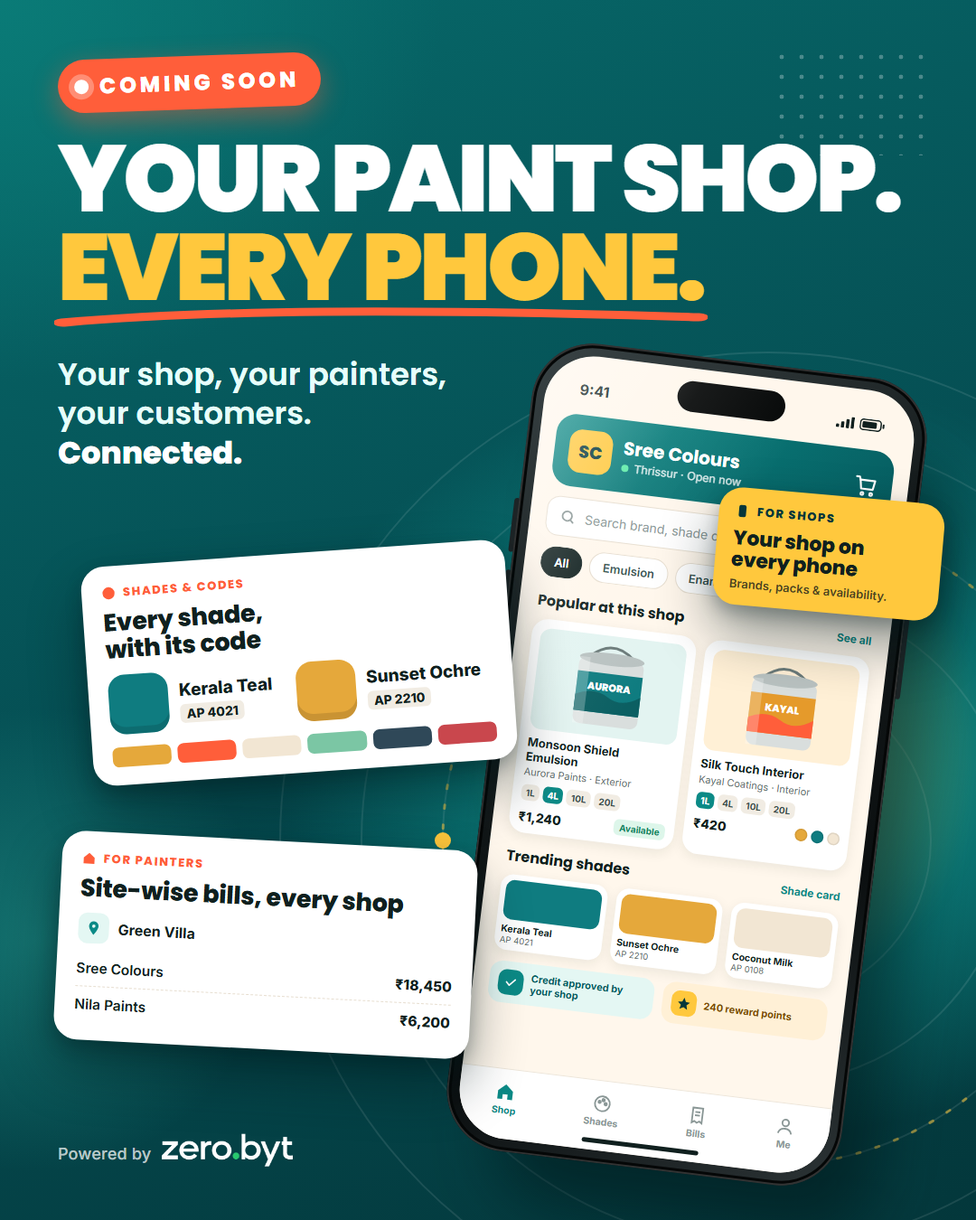
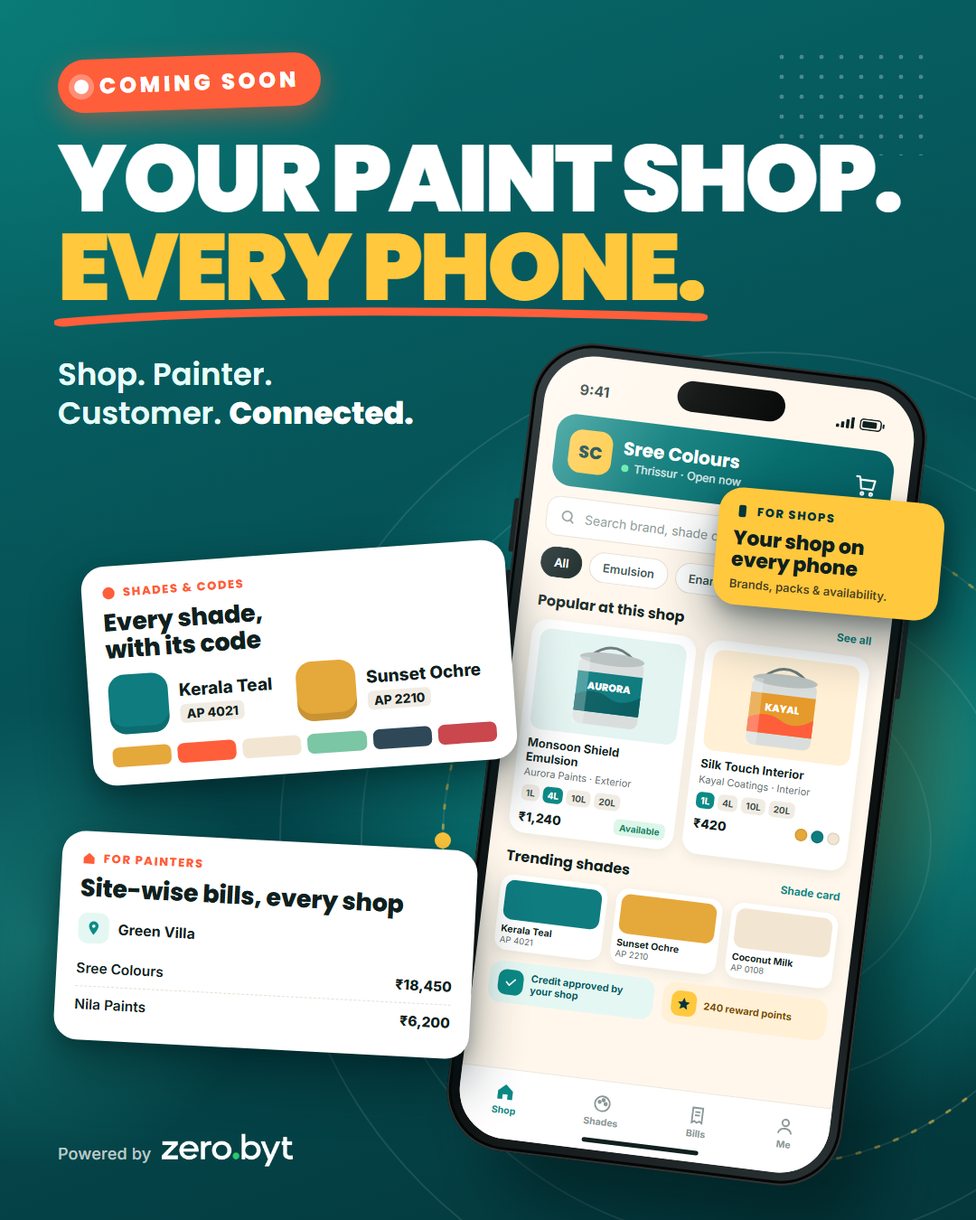
feat(marketing): Day 2 reel and the D-040 campaign tagline
- Day 2 reel ("POV: you need 2 more buckets at the site"): script with
  scored hooks, timed beat sheet, shot list (app beats as motion
  graphics, not fake UI), cover, the owner-approved style frame, caption.
- Tagline switched to "Shop. Painter. Customer. Connected." in the
  templates, calendar and Days 1 and 7 (re-rendered).
- The SevenPalette name stays secret in posts until the Day 30 reveal
  (brand.json nameReveal, calendar, SKILL rule).
- SKILL: reel review gate (script + one sample frame before building).

Claude-Session: https://claude.ai/code/session_01Cer5WQWXnKfRofxLWHLQrp

Changed region(s): [[0.0611, 0.28, 0.4583, 0.4044]]

diff --git a/marketing/instagram/output/day-02-reel/frame-order.html b/marketing/instagram/output/day-02-reel/frame-order.html
@@ -1,0 +1,123 @@
+<!doctype html>
+<html>
+<head>
+<meta charset="utf-8">
+<link href="https://fonts.googleapis.com/css2?family=Poppins:wght@500;600;700;800;900&family=Inter:wght@400;500;600;700;800&display=block" rel="stylesheet">
+<style>
+  :root{--t900:#03373B;--t700:#07696A;--t600:#0B8A86;--glow:#10A39C;--sun:#FFC83D;--coral:#FF5E3A;--mint:#3DDBC4;--cream:#FFF7EC;--ink:#10201F}
+  *{box-sizing:border-box;margin:0;padding:0}
+  html,body{width:1080px;height:1920px;overflow:hidden}
+  body{font-family:Poppins,sans-serif;color:#fff;position:relative;
+    background:radial-gradient(900px 900px at 70% 52%,rgba(16,163,156,.55),transparent 70%),linear-gradient(170deg,var(--t700) 0%,#054C51 55%,var(--t900) 100%)}
+  .rings{position:absolute;left:50%;top:1000px;width:1500px;height:1500px;transform:translate(-50%,-50%);border-radius:50%;
+    background:repeating-radial-gradient(circle,rgba(255,255,255,.06) 0 2px,transparent 2px 100px)}
+  .dots{position:absolute;right:84px;top:420px;width:220px;height:100px;background:radial-gradient(rgba(255,255,255,.3) 3px,transparent 3.5px) 0 0/40px 40px}
+
+  /* progress + POV chip (top safe area starts ~ 250px under IG header) */
+  .top{position:absolute;left:84px;right:84px;top:260px;display:flex;align-items:center;justify-content:space-between}
+  .pov{background:var(--coral);font-weight:800;font-size:30px;letter-spacing:.12em;padding:12px 30px;border-radius:999px;transform:rotate(-3deg);box-shadow:0 14px 36px rgba(255,94,58,.45)}
+  .steps{display:flex;gap:10px}
+  .steps i{display:block;width:56px;height:8px;border-radius:8px;background:rgba(255,255,255,.25)}
+  .steps i.on{background:var(--sun)}
+
+  /* big on-screen text */
+  h1{position:absolute;left:84px;right:84px;top:380px;font-weight:900;font-size:104px;line-height:1.0;letter-spacing:-.03em;text-transform:uppercase}
+  h1 span{color:var(--sun)}
+  .bar{position:absolute;left:84px;top:610px;width:160px;height:12px;border-radius:8px;background:var(--coral);transform:rotate(-1.5deg)}
+
+  /* order card */
+  .card{position:absolute;left:120px;right:120px;top:700px;background:var(--cream);color:var(--ink);border-radius:40px;padding:40px 44px 44px;
+    transform:rotate(-2.5deg);box-shadow:0 40px 80px rgba(0,0,0,.35),0 0 0 1px rgba(255,255,255,.5)}
+  .card-head{display:flex;align-items:center;justify-content:space-between;font-family:Inter;font-size:24px;font-weight:600;color:#5b6b69}
+  .site{display:flex;align-items:center;gap:12px;color:var(--t700);font-weight:700}
+  .site b{display:inline-flex;align-items:center;justify-content:center;width:40px;height:40px;border-radius:12px;background:#DDF3EF}
+  .shop{display:flex;align-items:center;gap:18px;margin-top:30px}
+  .av{width:72px;height:72px;border-radius:20px;background:var(--sun);display:flex;align-items:center;justify-content:center;font-weight:800;font-size:28px;color:var(--ink)}
+  .shop h3{font-size:36px;font-weight:700;line-height:1.1}
+  .shop p{font-family:Inter;font-size:22px;color:#6b7a78;margin-top:4px}
+  .item{display:flex;gap:26px;margin-top:30px;padding:26px;border-radius:28px;background:#fff;box-shadow:0 2px 0 #efe6d8}
+  .tin{flex:none;width:150px;height:160px}
+  .item h4{font-size:32px;font-weight:700;line-height:1.15}
+  .item .brand{font-family:Inter;font-size:22px;color:#6b7a78;margin-top:6px}
+  .chips{display:flex;gap:12px;margin-top:18px;flex-wrap:wrap}
+  .chip{display:inline-flex;align-items:center;gap:10px;font-family:Inter;font-weight:700;font-size:22px;padding:10px 16px;border-radius:999px;background:#EAF6F4;color:var(--t700)}
+  .chip i{display:block;width:24px;height:24px;border-radius:8px;background:#0F7C80}
+  .chip.pack{background:var(--ink);color:#fff}
+  .order{position:relative;margin-top:32px;height:96px;border-radius:999px;background:var(--coral);color:#fff;display:flex;align-items:center;justify-content:center;
+    font-weight:800;font-size:36px;letter-spacing:.01em;box-shadow:0 18px 36px rgba(255,94,58,.4)}
+  /* tap ripple = suggests the animation */
+  .tap{position:absolute;right:150px;top:50%;width:70px;height:70px;margin-top:-35px;border-radius:50%;background:rgba(255,255,255,.55)}
+  .tap::before,.tap::after{content:"";position:absolute;inset:-26px;border-radius:50%;border:4px solid rgba(255,255,255,.55)}
+  .tap::after{inset:-56px;border-color:rgba(255,255,255,.25)}
+
+  /* next beat peeking: added to site */
+  .added{position:absolute;left:190px;top:1370px;display:flex;align-items:center;gap:18px;background:rgba(255,255,255,.12);border:2px solid rgba(255,255,255,.25);
+    backdrop-filter:blur(8px);padding:20px 30px 20px 22px;border-radius:999px;font-weight:700;font-size:30px;transform:rotate(1.5deg)}
+  .added b{display:inline-flex;align-items:center;justify-content:center;width:52px;height:52px;border-radius:50%;background:var(--mint);color:var(--ink);font-size:30px}
+  .sparkle{position:absolute;color:var(--sun);font-size:44px}
+
+  /* voice-over subtitle */
+  .sub{position:absolute;left:84px;right:84px;top:1550px;text-align:center;font-family:Inter;font-weight:700;font-size:36px;line-height:1.35}
+  .sub span{background:rgba(3,55,59,.75);padding:6px 16px;border-radius:12px;-webkit-box-decoration-break:clone;box-decoration-break:clone}
+
+  /* zero.byt lockup (36px spec) — reel watermark sits above the IG caption area */
+  .zb{position:absolute;left:84px;top:1680px;display:flex;align-items:baseline;gap:12px;font-family:Inter,sans-serif;line-height:1}
+  .zb-label{font-size:18px;font-weight:500;letter-spacing:.01em;color:rgba(255,255,255,.72)}
+  .zb-logo{height:36px;width:auto;display:block;flex:none;transform:translateY(7.7px)}
+
+
+  .guide{position:absolute;left:0;right:0;border-top:2px dashed rgba(255,255,255,.35)}
+  .guide span{position:absolute;right:16px;top:6px;font:600 18px Inter;color:rgba(255,255,255,.6)}
+</style>
+</head>
+<body>
+  <div class="rings"></div>
+  <div class="dots"></div>
+
+  <div class="top">
+    <div class="pov">POV</div>
+    <div class="steps"><i class="on"></i><i class="on"></i><i class="on"></i><i></i><i></i></div>
+  </div>
+
+  <h1>Order from<br><span>your shop</span></h1>
+  <div class="bar"></div>
+
+  <div class="card">
+    <div class="card-head">
+      <div class="site"><b>📍</b>Green Villa</div>
+      <div>Site order</div>
+    </div>
+    <div class="shop">
+      <div class="av">SC</div>
+      <div><h3>Sree Colours</h3><p>Thrissur · Your shop</p></div>
+    </div>
+    <div class="item">
+      <svg class="tin" viewBox="0 0 150 160" aria-hidden="true">
+        <ellipse cx="75" cy="30" rx="58" ry="14" fill="#CFE3E0"/>
+        <path d="M17 30 v100 a58 14 0 0 0 116 0 v-100" fill="#E8F2F0"/>
+        <rect x="17" y="58" width="116" height="56" fill="#0F7C80"/>
+        <text x="75" y="93" text-anchor="middle" font-family="Poppins" font-weight="800" font-size="17" fill="#fff">AURORA</text>
+        <ellipse cx="75" cy="30" rx="58" ry="14" fill="none" stroke="#9FBDB8" stroke-width="3"/>
+        <path d="M30 26 q45 -40 90 0" fill="none" stroke="#7d8f8c" stroke-width="5" stroke-linecap="round"/>
+      </svg>
+      <div>
+        <h4>Monsoon Shield Emulsion</h4>
+        <div class="brand">Aurora Paints · Exterior</div>
+        <div class="chips">
+          <span class="chip"><i></i>Kerala Teal · AP 4021</span>
+          <span class="chip pack">4L × 2</span>
+        </div>
+      </div>
+    </div>
+    <div class="order">Order<span class="tap"></span></div>
+  </div>
+
+  <div class="added"><b>✓</b>Added to Green Villa</div>
+  <div class="sparkle" style="left:120px;top:1352px">✦</div>
+  <div class="sparkle" style="left:880px;top:1412px;font-size:32px;color:var(--mint)">✦</div>
+
+  <div class="sub"><span>Order from your shop, right from the site.</span></div>
+
+  <div class="zb"><span class="zb-label">Powered by</span><img class="zb-logo" src="../../assets/zerobyt-logo-light.png" alt="zero.byt"></div>
+</body>
+</html>

diff --git a/marketing/instagram/output/day-02-reel/cover.html b/marketing/instagram/output/day-02-reel/cover.html
@@ -1,0 +1,55 @@
+<!doctype html>
+<!--
+  Reel cover in style A (teal / sun / coral), 1080x1920 (9:16). The profile grid crops it to the centre
+  1080x1350, so all text sits inside .safe (top 285px .. bottom 285px).
+  Copy to marketing/instagram/output/day-XX-reel/cover.html, replace POV, Need 2 more buckets, at the site?, Shop. Painter. Customer. Connected.,
+  render with scripts/render.mjs at 1080 1920, then LOOK at the PNG.
+  Rules: English only; no product name; logo placed directly (never a white box).
+-->
+<html>
+  <head>
+    <meta charset="utf-8" />
+    <link href="https://fonts.googleapis.com/css2?family=Poppins:wght@500;600;800;900&family=Inter:wght@500&display=block" rel="stylesheet" />
+    <style>
+      :root { --teal-900: #03373b; --teal-700: #07696a; --glow: #10a39c; --sun: #ffc83d; --coral: #ff5e3a; --mint: #3ddbc4; --cream: #fff7ec; }
+      * { box-sizing: border-box; margin: 0; padding: 0; }
+      html, body { width: 1080px; height: 1920px; overflow: hidden; }
+      body {
+        font-family: "Poppins", sans-serif; color: #fff; position: relative;
+        background: radial-gradient(900px 900px at 80% 38%, rgba(16, 163, 156, 0.55), transparent 70%),
+          linear-gradient(170deg, var(--teal-700) 0%, #054c51 55%, var(--teal-900) 100%);
+      }
+      .rings { position: absolute; right: -260px; top: 420px; width: 1100px; height: 1100px; border-radius: 50%;
+        background: repeating-radial-gradient(circle, rgba(255, 255, 255, 0.07) 0 2px, transparent 2px 90px); }
+      .dots { position: absolute; left: 80px; top: 120px; width: 260px; height: 120px;
+        background: radial-gradient(rgba(255, 255, 255, 0.35) 3px, transparent 3.5px) 0 0 / 40px 40px; }
+      .safe { position: absolute; top: 285px; left: 0; width: 1080px; height: 1350px; padding: 110px 84px;
+        display: flex; flex-direction: column; justify-content: center; }
+      .kicker { align-self: flex-start; background: var(--coral); font-weight: 800; font-size: 34px; letter-spacing: 0.12em;
+        text-transform: uppercase; padding: 16px 34px; border-radius: 999px; transform: rotate(-3deg);
+        box-shadow: 0 16px 40px rgba(255, 94, 58, 0.45); }
+      h1 { margin-top: 60px; font-weight: 900; font-size: 128px; line-height: 0.98; letter-spacing: -0.035em; text-transform: uppercase; }
+      h1 .two { color: var(--sun); }
+      .bar { width: 180px; height: 14px; border-radius: 8px; background: var(--coral); margin-top: 34px; transform: rotate(-1.5deg); }
+      .sub { margin-top: 48px; font-weight: 500; font-size: 46px; line-height: 1.3; color: var(--cream); max-width: 860px; }
+      /* zero.byt lockup: same spec as the posters (logo 36px, label on the 'zero' baseline). */
+      .zb { position: absolute; left: 84px; bottom: 118px; display: flex; align-items: baseline; gap: 12px; line-height: 1; }
+      .zb-label { font-family: "Inter", sans-serif; font-size: 18px; font-weight: 500; letter-spacing: 0.01em; color: rgba(255, 255, 255, 0.72); }
+      .zb-logo { height: 36px; width: auto; display: block; flex: none; transform: translateY(7.7px); }
+      .swatches { position: absolute; right: 84px; bottom: 110px; display: flex; gap: 14px; }
+      .swatches i { width: 54px; height: 54px; border-radius: 14px; display: block; box-shadow: 0 8px 20px rgba(0, 0, 0, 0.25); }
+    </style>
+  </head>
+  <body>
+    <div class="rings"></div>
+    <div class="dots"></div>
+    <div class="safe">
+      <div class="kicker">POV</div>
+      <h1>Need 2 more buckets<br /><span class="two">at the site?</span></h1>
+      <div class="bar"></div>
+      <p class="sub">Shop. Painter. Customer. Connected.</p>
+      <div class="zb"><span class="zb-label">Powered by</span><img class="zb-logo" src="../../assets/zerobyt-logo-light.png" alt="zero.byt" /></div>
+      <div class="swatches"><i style="background: #0f7c80"></i><i style="background: #e5a83b"></i><i style="background: #ff5e3a"></i><i style="background: #fff7ec"></i></div>
+    </div>
+  </body>
+</html>

diff --git a/.claude/skills/instagram/templates/style-a-showcase.html b/.claude/skills/instagram/templates/style-a-showcase.html
@@ -165,7 +165,7 @@
   <div class="top">
     <div class="badge"><span class="pulse"></span>Coming soon</div>
     <h1>Your paint shop.<br><span class="y u">Every phone.<svg viewBox="0 0 300 30" preserveAspectRatio="none"><path d="M4 20 C 70 6, 160 4, 296 14" stroke="#FF5E3A" stroke-width="9" fill="none" stroke-linecap="round"/></svg></span></h1>
-    <p class="tag">Your shop, your painters,<br>your customers. <b>Connected.</b></p>
+    <p class="tag">Shop. Painter.<br>Customer. <b>Connected.</b></p>
   </div>
 
   <!-- phone -->

diff --git a/marketing/instagram/output/day-01-post/poster-a.html b/marketing/instagram/output/day-01-post/poster-a.html
@@ -165,7 +165,7 @@
   <div class="top">
     <div class="badge"><span class="pulse"></span>Coming soon</div>
     <h1>Your paint shop.<br><span class="y u">Every phone.<svg viewBox="0 0 300 30" preserveAspectRatio="none"><path d="M4 20 C 70 6, 160 4, 296 14" stroke="#FF5E3A" stroke-width="9" fill="none" stroke-linecap="round"/></svg></span></h1>
-    <p class="tag">Your shop, your painters,<br>your customers. <b>Connected.</b></p>
+    <p class="tag">Shop. Painter.<br>Customer. <b>Connected.</b></p>
   </div>
 
   <!-- phone -->

diff --git a/.claude/skills/instagram/templates/style-c-before-after.html b/.claude/skills/instagram/templates/style-c-before-after.html
@@ -224,7 +224,7 @@ body{background:var(--violet);font-family:Inter,sans-serif;position:relative;col
 <!-- footer -->
 <div class="foot">
   <div>
-    <div class="tagline">Your shop, your painters, your customers.<br><em>Connected.</em></div>
+    <div class="tagline">Shop. Painter. Customer.<br><em>Connected.</em></div>
     <div class="cta">Coming soon · Follow @zero.byt to see it first →</div>
   </div>
   <div class="zb stack">

diff --git a/.claude/skills/instagram/templates/style-d-typography.html b/.claude/skills/instagram/templates/style-d-typography.html
@@ -164,7 +164,7 @@
   </div>
 
   <div class="tag">
-    <p>Your shop, your painters,<br>your customers.</p>
+    <p>Shop. Painter.<br>Customer.</p>
     <div class="c">Connected.</div>
   </div>
 

diff --git a/marketing/instagram/output/day-07-post/poster-a.html b/marketing/instagram/output/day-07-post/poster-a.html
@@ -164,7 +164,7 @@
   </div>
 
   <div class="tag">
-    <p>Your shop, your painters,<br>your customers.</p>
+    <p>Shop. Painter.<br>Customer.</p>
     <div class="c">Connected.</div>
   </div>
 

diff --git a/marketing/instagram/CONTENT_PLAN_30_DAYS.md b/marketing/instagram/CONTENT_PLAN_30_DAYS.md
@@ -4,7 +4,9 @@
 
 **Rhythm:** a reel day has 1 reel and a post day has 2 posters (two posts, or one 2-slide carousel). **Day 1 is a single poster.** There are 10 reel days and 20 post days.
 
-**Tagline (product owner):** "Your shop, your painters, your customers. Connected."
+**Tagline (D-040, switched 2026-11-06):** "Shop. Painter. Customer. Connected."
+
+**Product name is secret:** the product is named SevenPalette (D-040), but the product owner wants it kept secret in posts until the **Day 30 reveal**. Until then: no name and no fan logo, only "the app" and Powered by zero.byt.
 
 **Goal (product owner, 2026-11-05):** don't repeat one pattern, and don't say "Coming soon" every day. Get people engaged by showing what the software actually does: features, how it works, questions, tips and sneak peeks.
 
@@ -40,7 +42,7 @@ Templates are in `.claude/skills/instagram/templates/`.
 **What we say**
 - Only features that `docs/FEATURE_CATALOG.md` marks Confirmed, Confirmed direction or Implemented. Future features are described as coming, never as available now.
 - **"Coming soon" appears as a badge only on Days 1, 7, 22, 28 and 30.** Other days use their format's badge and an engagement CTA.
-- **No product name.** Call it "the app" or "a new app for paint shops". Credit it only as **Powered by zero.byt**: the logo lockup goes on every poster and cover, and `Powered by @zero.byt` ends every caption.
+- **No product name before Day 30.** Call it "the app" or "a new app for paint shops". Day 30 reveals **SevenPalette** and its fan logo. Credit it only as **Powered by zero.byt**: the logo lockup goes on every poster and cover, and `Powered by @zero.byt` ends every caption.
 - **English only.**
 
 **What we never say**
@@ -64,7 +66,7 @@ Pillars: **T** teaser · **S** shops · **P** painters · **C** customers · **B
 | Day | Format | Pillar | Topic | Headline / hook | Engagement CTA | Source | Status |
 |---:|---|---|---|---|---|---|---|
 | 1 | Post ×1: F1 | T | The big idea | "Your paint shop. Every phone." (COMING SOON) | Follow @zero.byt | PRODUCT_OVERVIEW §1, §3 | ready |
-| 2 | Reel: POV | P | Order from the site | "POV: you need 2 more buckets at the site" | Tag a painter friend | FEATURE_CATALOG §2 | todo |
+| 2 | Reel: POV | P | Order from the site | "POV: you need 2 more buckets at the site" | Tag a painter friend | FEATURE_CATALOG §2 | ready |
 | 3 | Post: F2 + F4 | S | Storefront · counter pain | A: "Your catalogue, on every customer's phone." · B: "What slows your shop counter the most?" | Save this · Comment 1, 2 or 3 | PRODUCT_OVERVIEW §3.1, §6 | ready |
 | 4 | Reel: before/after | P | Notebook vs site bills | "Notebook vs app. Same painter, same site." | Share with a painter | PRODUCT_OVERVIEW §7 | todo |
 | 5 | Post: F3 + F7 | S | Go live · shade codes | A: "How a shop goes live" · B: "Shop tip #1: Write the shade code on every order." | DM to join early · Save this tip | SHP-001, SHP-003, PLT-002, CAT-002 | ready |
@@ -92,7 +94,7 @@ Pillars: **T** teaser · **S** shops · **P** painters · **C** customers · **B
 | 27 | Post: F6 + F2 | S/C | Easy onboarding · My Shops | A: Myth "Going digital needs a big setup" → Fact "Register, add the basics, go live after review." · B: "Your shops, your list." (My Shops, active shop first) | Save | SHP-003, PLT-002, D-037 | todo |
 | 28 | Post: F10 + F4 | T | Almost here | A: "Almost here." (COMING SOON) · B: "Which feature are you waiting for?" | Comment | FEATURE_CATALOG | todo |
 | 29 | Reel: recap | B | 30 days in 30 seconds | "Everything we showed you, in 30 seconds" | Save + share | FEATURE_CATALOG | todo |
-| 30 | Post: F10 + F1 | T | Be first | A: "Be first." (COMING SOON) · B: "Shop owners: join early." | DM @zero.byt to join early | brand.json cta | todo |
+| 30 | Post: F10 + F1 | T | Name reveal · be first | A: "Meet SevenPalette." (COMING SOON, reveal the name and fan logo) · B: "Shop owners: join early." | DM @zero.byt to join early | brand.json cta | todo |
 
 ## Status values
 

diff --git a/marketing/instagram/output/day-02-reel/script.md b/marketing/instagram/output/day-02-reel/script.md
@@ -1,0 +1,45 @@
+# Day 02: Reel · POV · painters ordering from the site
+
+**Approved look:** `frame-order.png` (the 11–15 s beat, approved by the product owner on 2026-11-06). Build every app beat in this style: teal A background with rings, a coral "POV" tag, a top progress bar (5 segments), a big white + yellow two-line caption, a cream animated card, a subtitle bar, and the Powered by zero.byt lockup.
+
+## Hooks
+
+| Hook | Specific | Audience | Curiosity | Truth | Total |
+|---|---|---|---|---|---|
+| **"POV: you need 2 more buckets at the site"** ✅ | 5 | 5 | 4 | 5 | **19** |
+| "Painters: still calling the shop from the ladder?" | 4 | 5 | 4 | 4 | 17 |
+| "One site. Three shops. Who owes what?" | 4 | 4 | 5 | 5 | 18 (kept for Day 4) |
+
+## Spec
+
+- 21 seconds, 1080×1920 (9:16), on-screen captions always visible (most people watch muted).
+- Keep text between 250 px from the top and 400 px from the bottom, so Instagram's own UI doesn't cover it.
+- Audio: upbeat, light and modern; a soft "pop" on each card entrance and a "tap" click on the Order button. Use a track from Instagram's audio library; no copyrighted file is baked in.
+- Fonts: Poppins 900 for captions, Inter for subtitles and UI. Colours from style A only.
+
+## Beat sheet
+
+| Time | Visual | On-screen text | Voice-over (English) |
+|---|---|---|---|
+| 0–3 s | **B-roll:** a painter on a ladder, the wall half painted, and a close-up of an empty bucket | **POV: 2 more buckets needed** | "Halfway through the wall… and the paint's gone." |
+| 3–7 s | **B-roll:** a phone in hand, a call ringing out, then an unanswered chat bubble | **Call the shop? Wait for a reply?** | "Call the shop. Wait. Call again?" |
+| 7–11 s | **Animated card:** a list of sites slides up (Green Villa, Lake View Flat, Hill Top House); a finger taps **Green Villa** | **Open your site** | "Open your site." |
+| 11–15 s | **Animated card** (`frame-order.png`): Sree Colours · Monsoon Shield Emulsion · Kerala Teal AP 4021 · 4L × 2 → tap **Order**, then "✓ Added to Green Villa" pops in | **Order from your shop** | "Order from your shop, right from the site." |
+| 15–18 s | **Animated card:** the Green Villa total counts up, with bill rows "Sree Colours" and "Varma Paints" shown separately | **Every shop. One site total.** | "Every order adds up under that site, with each shop's bill kept separate." |
+| 18–21 s | **End card:** the reel-cover style, "Painters, this is coming." + tagline + lockup | **Tag a painter friend** | "Shop. Painter. Customer. Connected." |
+
+## Shot list
+
+1. **Ladder shot (0–3 s):** film at a real or staged painting site, vertical. Show no faces or brand labels, or only with consent.
+2. **Empty bucket close-up:** a plain, unbranded bucket.
+3. **Phone in hand (3–7 s):** show the screen blurred or a generic "Calling…" screen. Never use a real contact or number.
+4. **App beats (7–18 s):** these are **motion-graphics cards, not a screen recording**. The customer app isn't built yet, so never present a fake UI as the real app. Build them from `frame-order.html`: duplicate it per beat and animate in CapCut or Canva (slide-up 250 ms, tap ripple, number count-up).
+5. **End card (18–21 s):** `cover.png` style with the CTA line.
+
+## Facts and sources
+
+- Painters manage multiple work sites and attach orders to a site: `docs/FEATURE_CATALOG.md` §2
+- Combined spend per site across shops, with each shop's bill separate: `docs/PRODUCT_OVERVIEW.md` §7
+- An order belongs to one shop: `docs/PRODUCT_OVERVIEW.md` §5, §7
+
+All shop, site, brand, shade and amount data is fictional.

diff --git a/docs/PROJECT_STATE.md b/docs/PROJECT_STATE.md
@@ -353,7 +353,7 @@ Details, commands and environment variables: `docs/TECHNICAL_ARCHITECTURE.md` §
 4. **Hardening before any hosted environment:** questions 49 and 51.
 5. **Product owner:** Google Maps keys (`docs/guides/GOOGLE_MAPS_SETUP.md`); real brand catalogue data; confirm the CAT-002 assumptions (price ≤ MRP, 10-product rule).
 6. **Housekeeping.** Install Node 24 locally.
-7. **Marketing (not a product feature):** daily Instagram content for **@zero.byt** via `/instagram post <day>` / `/instagram reel <day>` (skill `.claude/skills/instagram/`) and the 30-day calendar `marketing/instagram/CONTENT_PLAN_30_DAYS.md`. A format library of 10 poster formats (showcase, feature spotlight, how it works, poll, this or that, myth vs fact, tip, sneak peek, before/after, big-type teaser) in the approved families A (main), D and C. No format repeats on consecutive post days, and "Coming soon" appears only on Days 1, 7, 22, 28 and 30. English only, no product name, "Powered by zero.byt" lockup (36px logo). Days 1 (single poster), 3, 5, 6 and 7 are `ready`.
+7. **Marketing (not a product feature):** daily Instagram content for **@zero.byt** via `/instagram post <day>` / `/instagram reel <day>` (skill `.claude/skills/instagram/`) and the 30-day calendar `marketing/instagram/CONTENT_PLAN_30_DAYS.md`. A format library of 10 poster formats (showcase, feature spotlight, how it works, poll, this or that, myth vs fact, tip, sneak peek, before/after, big-type teaser) in the approved families A (main), D and C. No format repeats on consecutive post days, and "Coming soon" appears only on Days 1, 7, 22, 28 and 30. English only, no product name, "Powered by zero.byt" lockup (36px logo). Days 1 (single poster), 2 (reel), 3, 5, 6 and 7 are `ready`. Tagline "Shop. Painter. Customer. Connected." (D-040); the SevenPalette name stays secret in posts until the Day 30 reveal (product owner, 2026-11-06). Reels: the owner reviews the script and one sample frame before the rest is built.
 
 ## 8. Feature progress
 
@@ -427,3 +427,4 @@ Details, commands and environment variables: `docs/TECHNICAL_ARCHITECTURE.md` §
 | 2026-11-06 | WEB-002 gaps closed: platform admin sign-in in the shared auth layout, resend countdown restarts for every code (`sentAt`), full flow verified at phone width. |
 | 2026-11-06 | DS-003: product named SevenPalette (D-040) with the shade-card fan logo; names in brand.json and native labels, logo files and generator, web and Flutter brand mark, favicon, launcher icons. |
 | 2026-11-06 | WEB-003: Your shops screen in the premium style; `CardLink` `raised` and `dashed` variants. No API change. |
+| 2026-11-06 | Instagram: Day 2 reel (script, cover, approved style frame, caption). Campaign tagline switched to the D-040 one; Days 1 and 7 re-rendered; product name kept secret until a Day 30 reveal; reel review gate added to the skill. |

diff --git a/.claude/skills/instagram/SKILL.md b/.claude/skills/instagram/SKILL.md
@@ -29,7 +29,7 @@ Paths are relative to the repository root:
 
 ## 3. Hard rules
 
-- **No product name.** It doesn't exist yet (`productName: null`). Use "a new app for paint shops" / "the app". Credit only as **Powered by zero.byt**. The templates already carry the logo and handle.
+- **Product name is secret until the reveal day.** The product is SevenPalette (D-040), but the product owner wants it hidden until `brand.json` → `nameReveal.revealDay` (Day 30). Before then, never show the name or its fan logo; use "a new app for paint shops" / "the app". Credit only as **Powered by zero.byt**. The tagline is "Shop. Painter. Customer. Connected."
 - The app isn't out yet, so never say "download now" or show store links, dates, prices, "free", user/shop counts, statistics or testimonials. Only use the **"Coming soon" badge on the days listed in `brand.json` → `comingSoonDays`**. Every other day uses its format's badge and an engagement CTA (`brand.json` → `cta`).
 - Credit = "approved by your shop". Shops never see each other's data. Painter incentives are never shown as a customer perk.
 - Look and colours come from the format templates only. They belong to families A (main), D and C; B "paint splash" was rejected. Don't invent a new format or add colours outside the family palette in `brand.json` → `styles`. A new format must be added to the library first, and the product owner sees it.
@@ -59,6 +59,7 @@ For each poster:
 ## 4b. `reel` → script + cover + caption
 
 Write `output/day-XX-reel/script.md` with:
+0. **Review gate (product owner):** first show the script and **one rendered sample frame** (1080×1920) of a key beat, then stop. Build the cover, caption and files only after the owner confirms.
 1. **Hooks**: 3 options from `references/hooks.md`, each scored (Specific/Audience/Curiosity/Truth, 1–5), and the winner marked.
 2. **Spec**: length 15–30 s, 9:16, captions on screen, suggested trending-style audio mood (no specific copyrighted track names required).
 3. **Beat sheet** (timed table): `0–3 s` hook · `3–n s` 2–4 beats (problem → feature → outcome) · last 3 s CTA + "Powered by zero.byt" end card.

diff --git a/marketing/instagram/output/day-02-reel/caption.md b/marketing/instagram/output/day-02-reel/caption.md
@@ -1,0 +1,33 @@
+# Day 02: POV, ordering from the site (Reel)
+
+Files: the cover is `cover.png`. The script and beat sheet are in `script.md`. The approved style frame is `frame-order.png`.
+
+## Caption
+
+POV: you need 2 more buckets at the site. 🪣
+
+No more calling the shop from the ladder.
+Open your site, order from your shop, done.
+Every order adds up under that site, and each shop's bill stays separate.
+
+Painters, this is coming. Tag a painter friend 👇
+Powered by @zero.byt
+
+#zerobyt #Painters #PaintingContractor #KeralaPainters #PainterLife #SiteWork #ContractorLife #WallPainting #HousePainting #Kerala #Thrissur #Kozhikode #Malappuram
+
+## Alt text
+
+- Cover: a teal background with a coral "POV" tag and the text "Need 2 more buckets at the site?", with the tagline "Shop. Painter. Customer. Connected." and Powered by zero.byt.
+
+## Sources
+
+- Multiple work sites, orders linked to a site: `docs/FEATURE_CATALOG.md` §2
+- Site total across shops with separate shop bills: `docs/PRODUCT_OVERVIEW.md` §7
+- One shop per order: `docs/PRODUCT_OVERVIEW.md` §5
+
+## Lint
+
+All checks pass:
+- The hook is under 125 characters. There are 3 body lines, 1 CTA, 13 hashtags and 2 emoji.
+- English only. No product name (it stays secret until Day 30). No "Coming soon" badge on Day 2. No prices, dates or "stock".
+- The app beats are labelled as motion graphics, not real UI.
